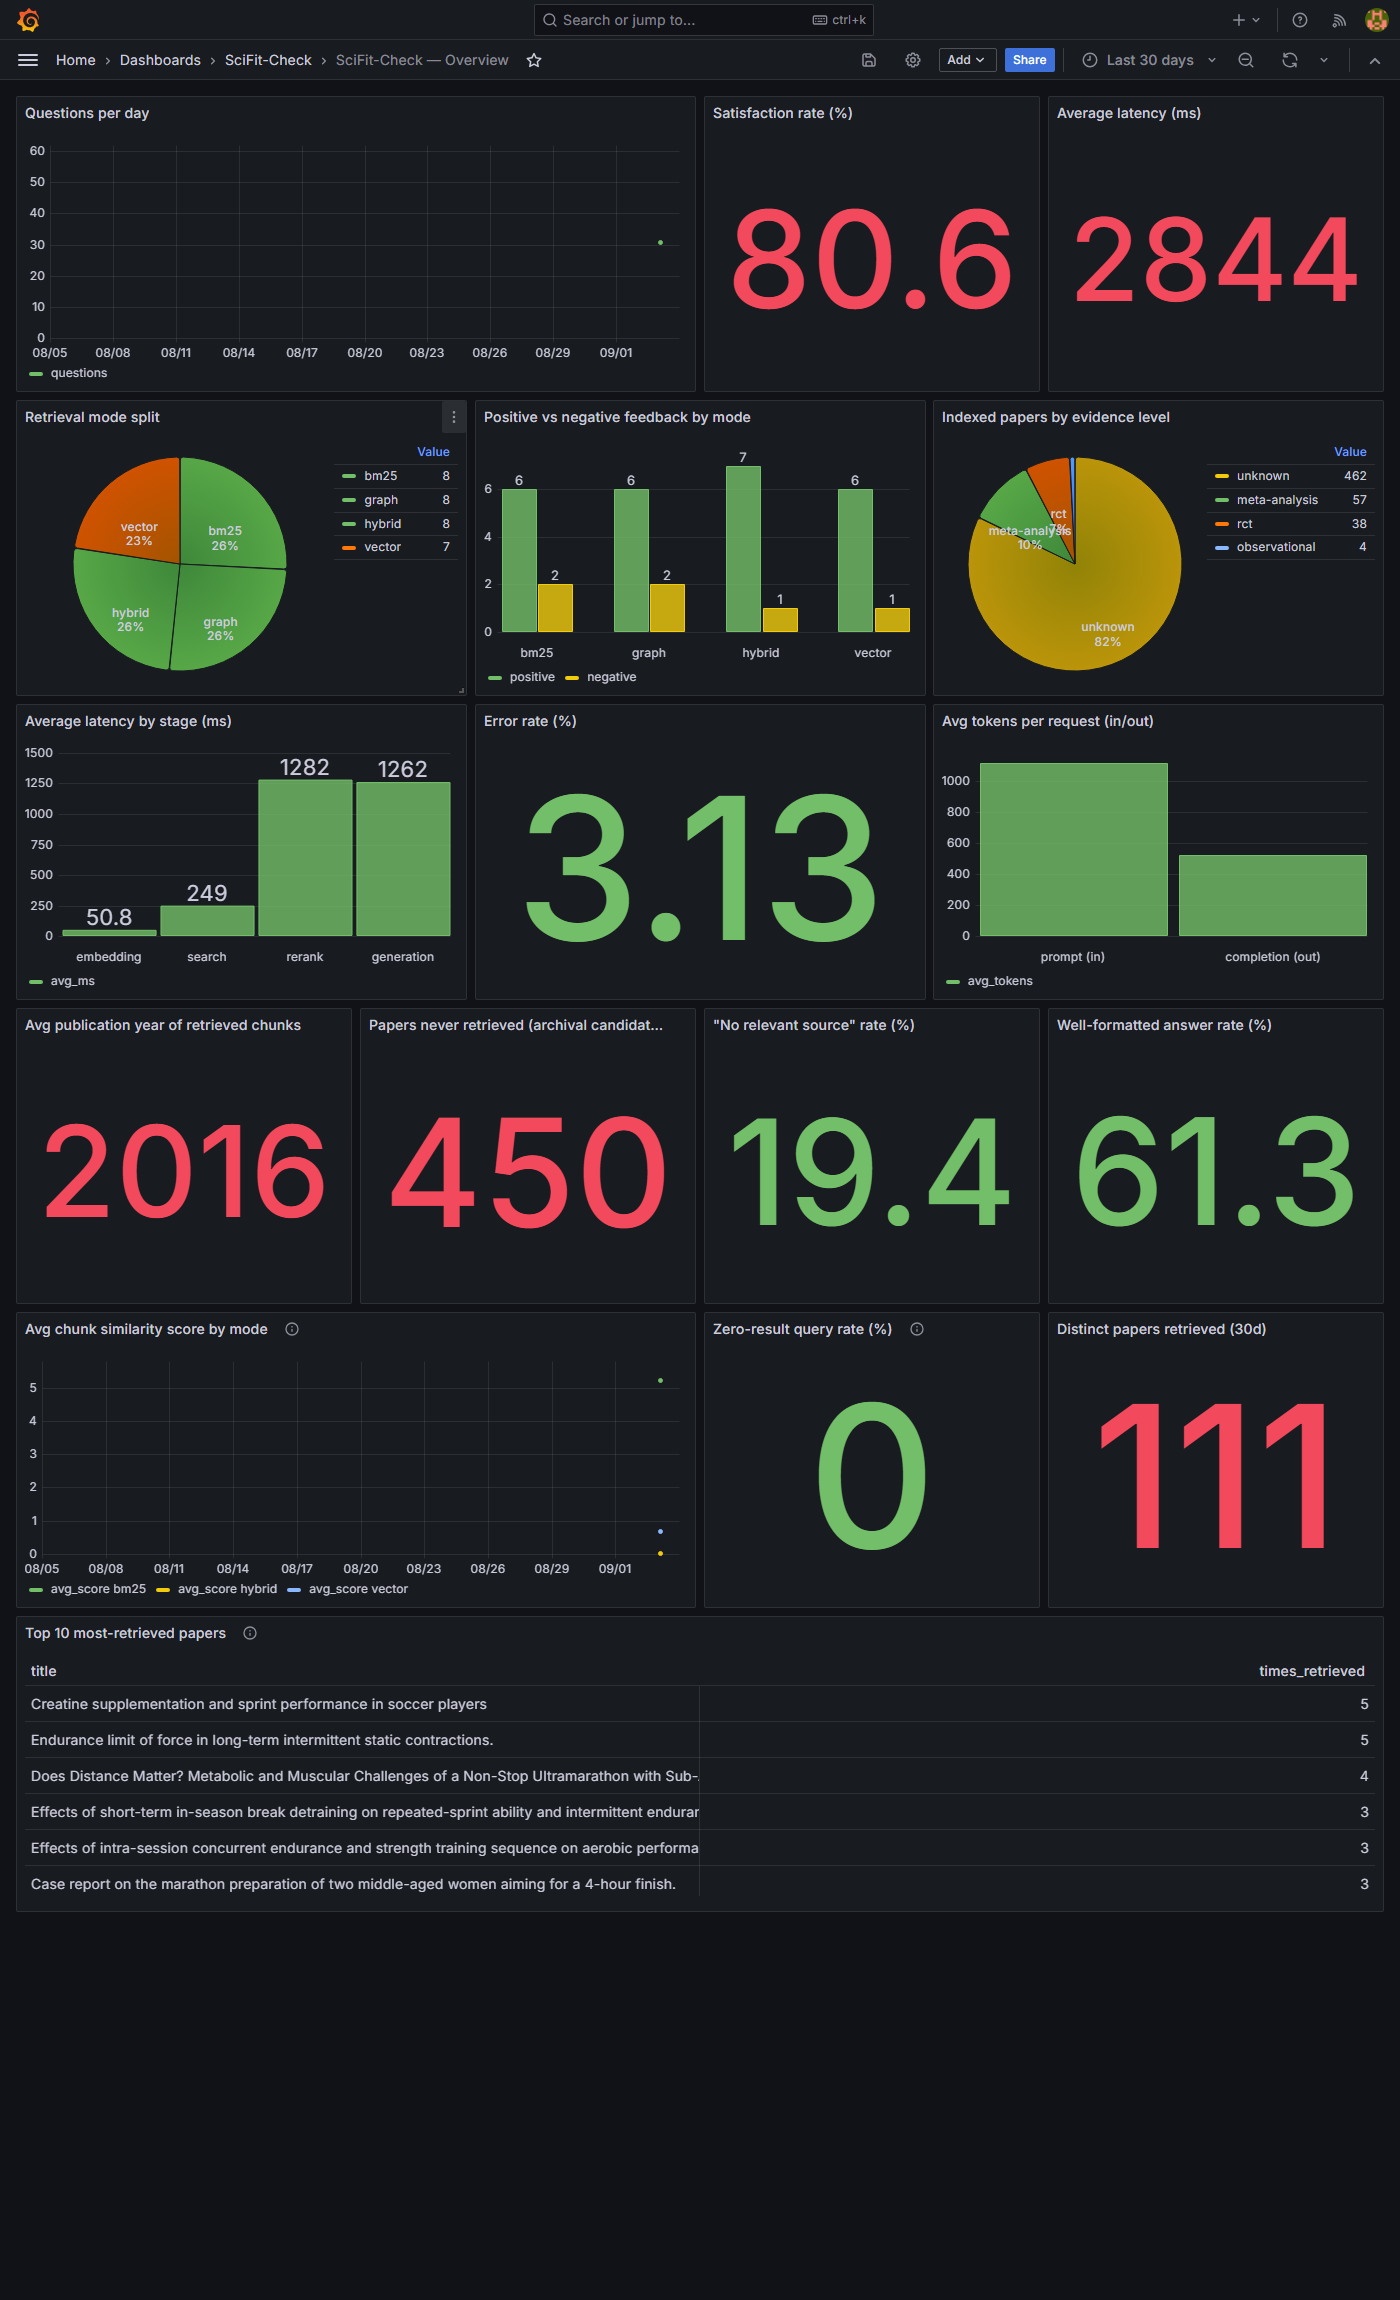
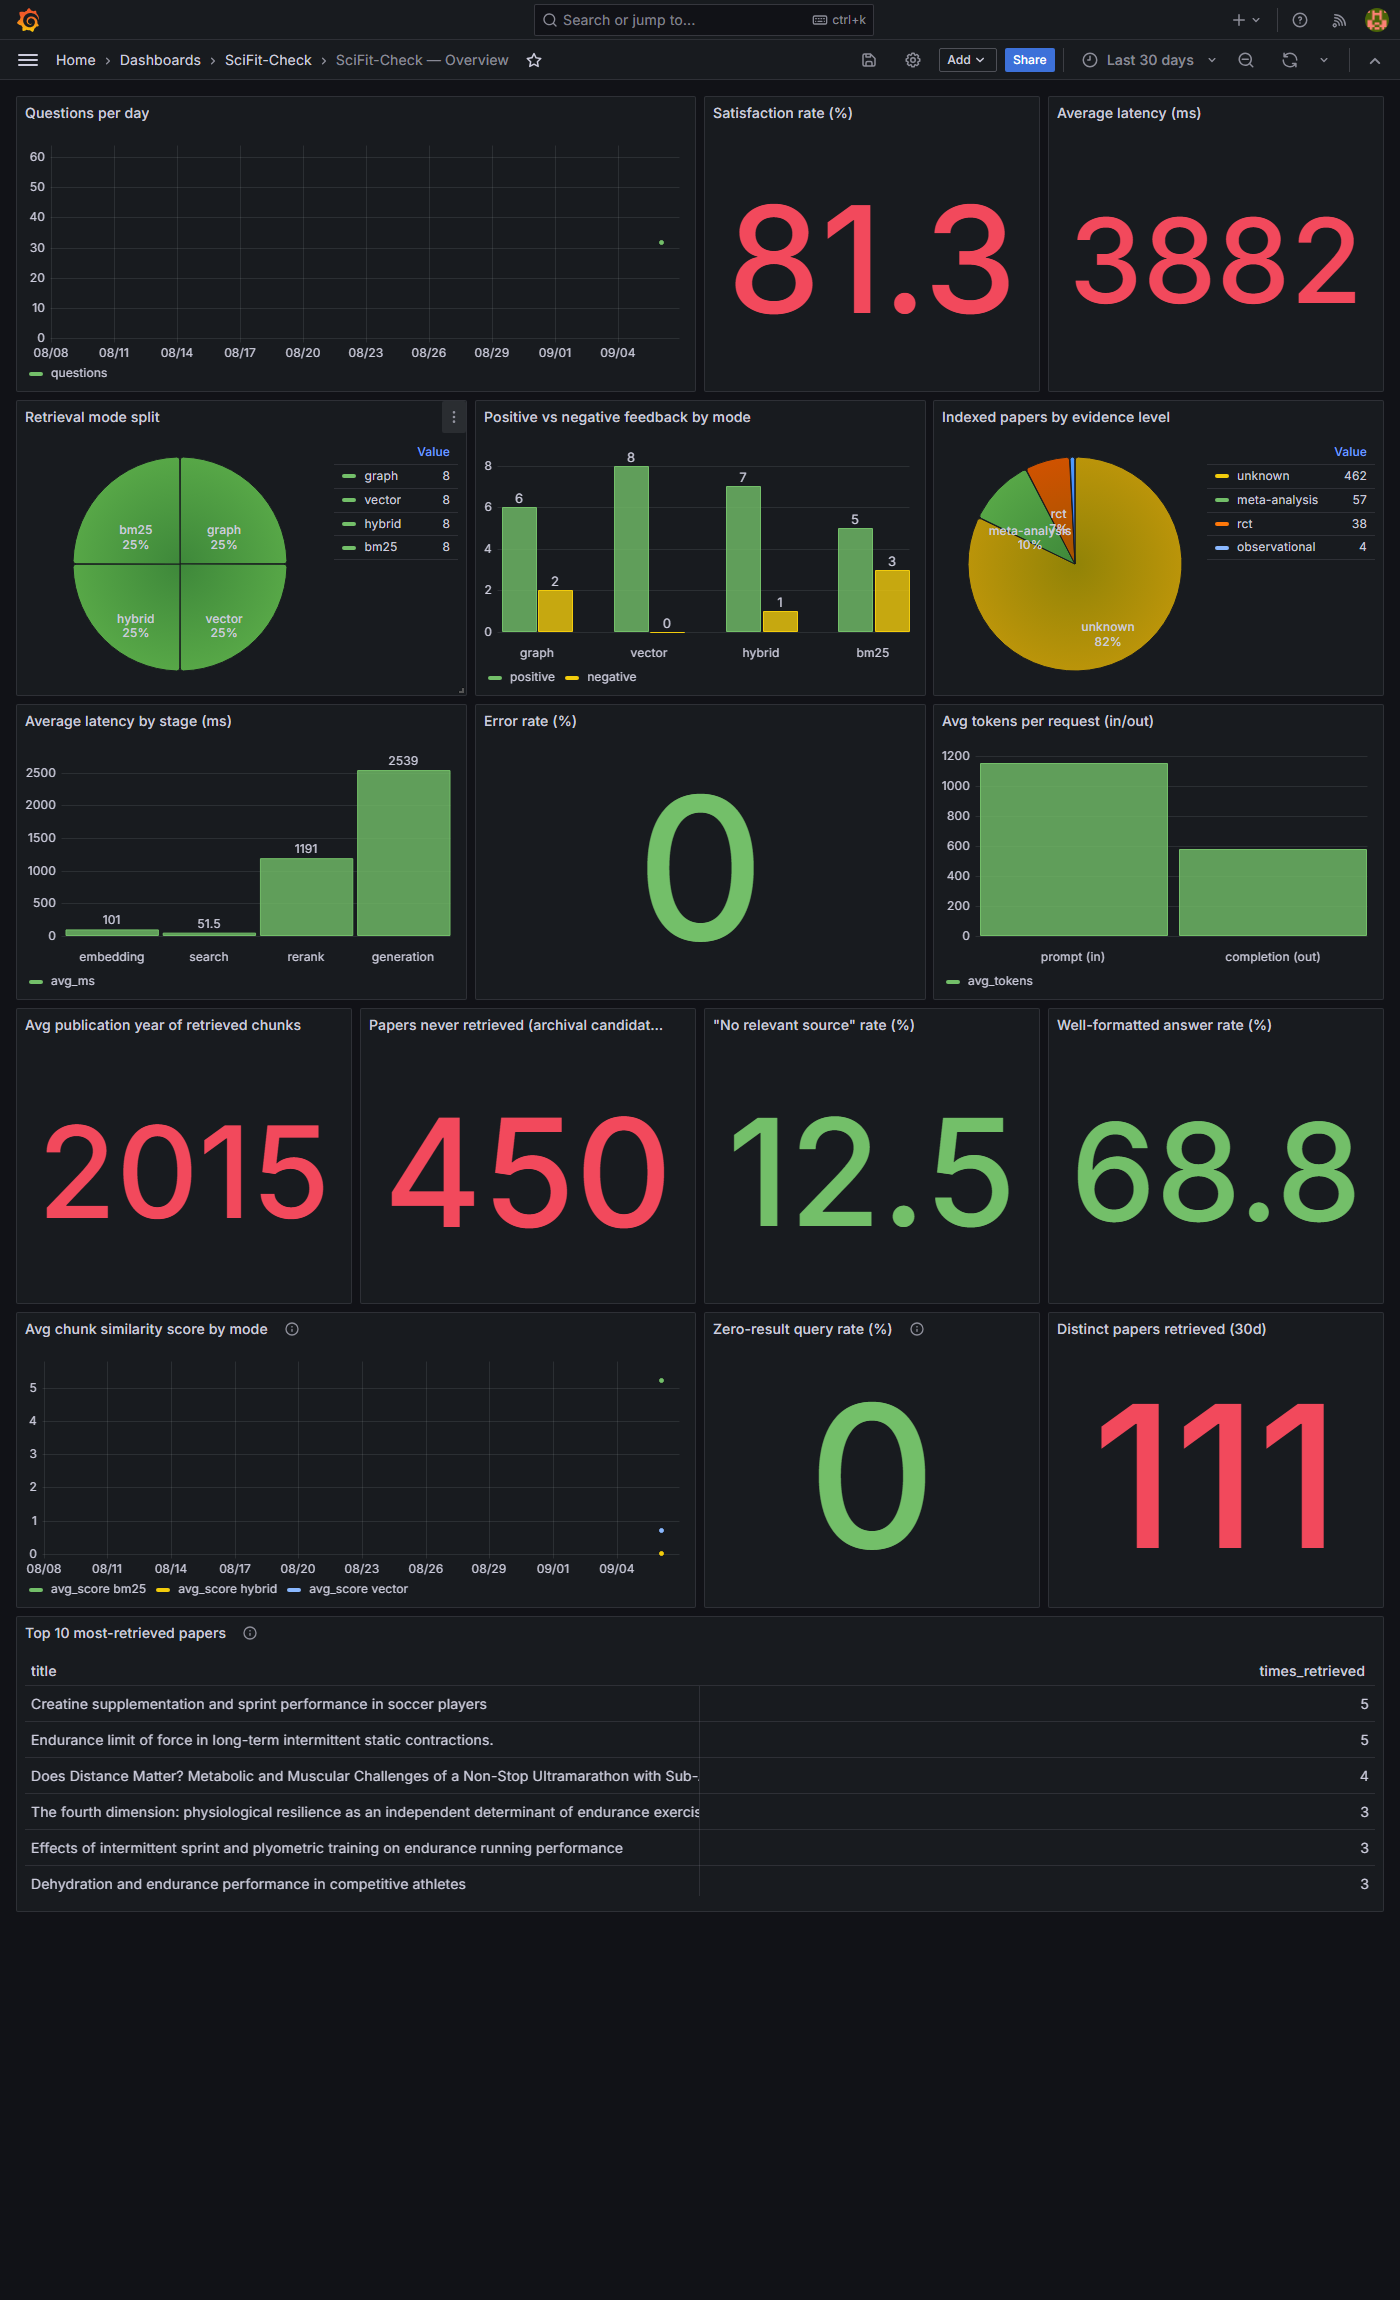
Reseed monitoring data now that graph-mode is capped
Previous feedback/retrieval_log data was a mix of pre- and post-fix
rows (max chunk_count=107, max prompt_tokens=2524, inflating the
dashboard averages -- the exact thing that prompted this cleanup).
Cleared and reseeded: max chunk_count is now 6 everywhere, avg tokens
per request back to a normal ~1150, error rate 0% on this clean run.
Screenshot and stats in docs/monitoring.md updated to match.

diff --git a/docs/monitoring.md b/docs/monitoring.md
@@ -79,8 +79,8 @@ checkbox defaults to off.
 | Well-formatted answer rate (%) | stat | % with both a citation and an evidence-level line |
 
 On the current (small, synthetic ~32-request) seed: avg year **2016**,
-**450/561 papers never retrieved**, decline rate **19.4%**, well-formatted
-rate **61.3%**. That well-formatted number is a genuine, slightly
+**450/561 papers never retrieved**, decline rate **12.5%**, well-formatted
+rate **68.8%**. That well-formatted number is a genuine, slightly
 uncomfortable finding: even with an explicit prompt instruction, the model
 skips the citation or the evidence-level line in a meaningful chunk of
 answers — worth watching as real usage accumulates, not just assumed to
@@ -152,9 +152,11 @@ Two ways:
 4. **A Qdrant `ReadTimeout` crashed the entire seed run**, losing every
    result already collected, because only the LLM generation call was
    wrapped in `try/except` — the retrieval step (Qdrant/BM25/reranker)
-   wasn't. This is now the **3.13% error rate** visible on the dashboard
-   in the screenshot above: a real, reproduced timeout, caught and logged
-   instead of crashing the second time it happened. Fixed by wrapping the
+   wasn't. This showed up as a real **3.13% error rate** on the dashboard
+   the first time it happened after the fix: a real, reproduced timeout,
+   caught and logged instead of crashing (transient — the error rate
+   reads 0% on a re-seed without a Qdrant hiccup, which is expected, not
+   a regression). Fixed by wrapping the
    retrieval step too, in both `streamlit_app/app.py` and
    `seed_feedback_demo.py`.
 5. **Graph mode had no cap on candidates**, unlike every other mode.
